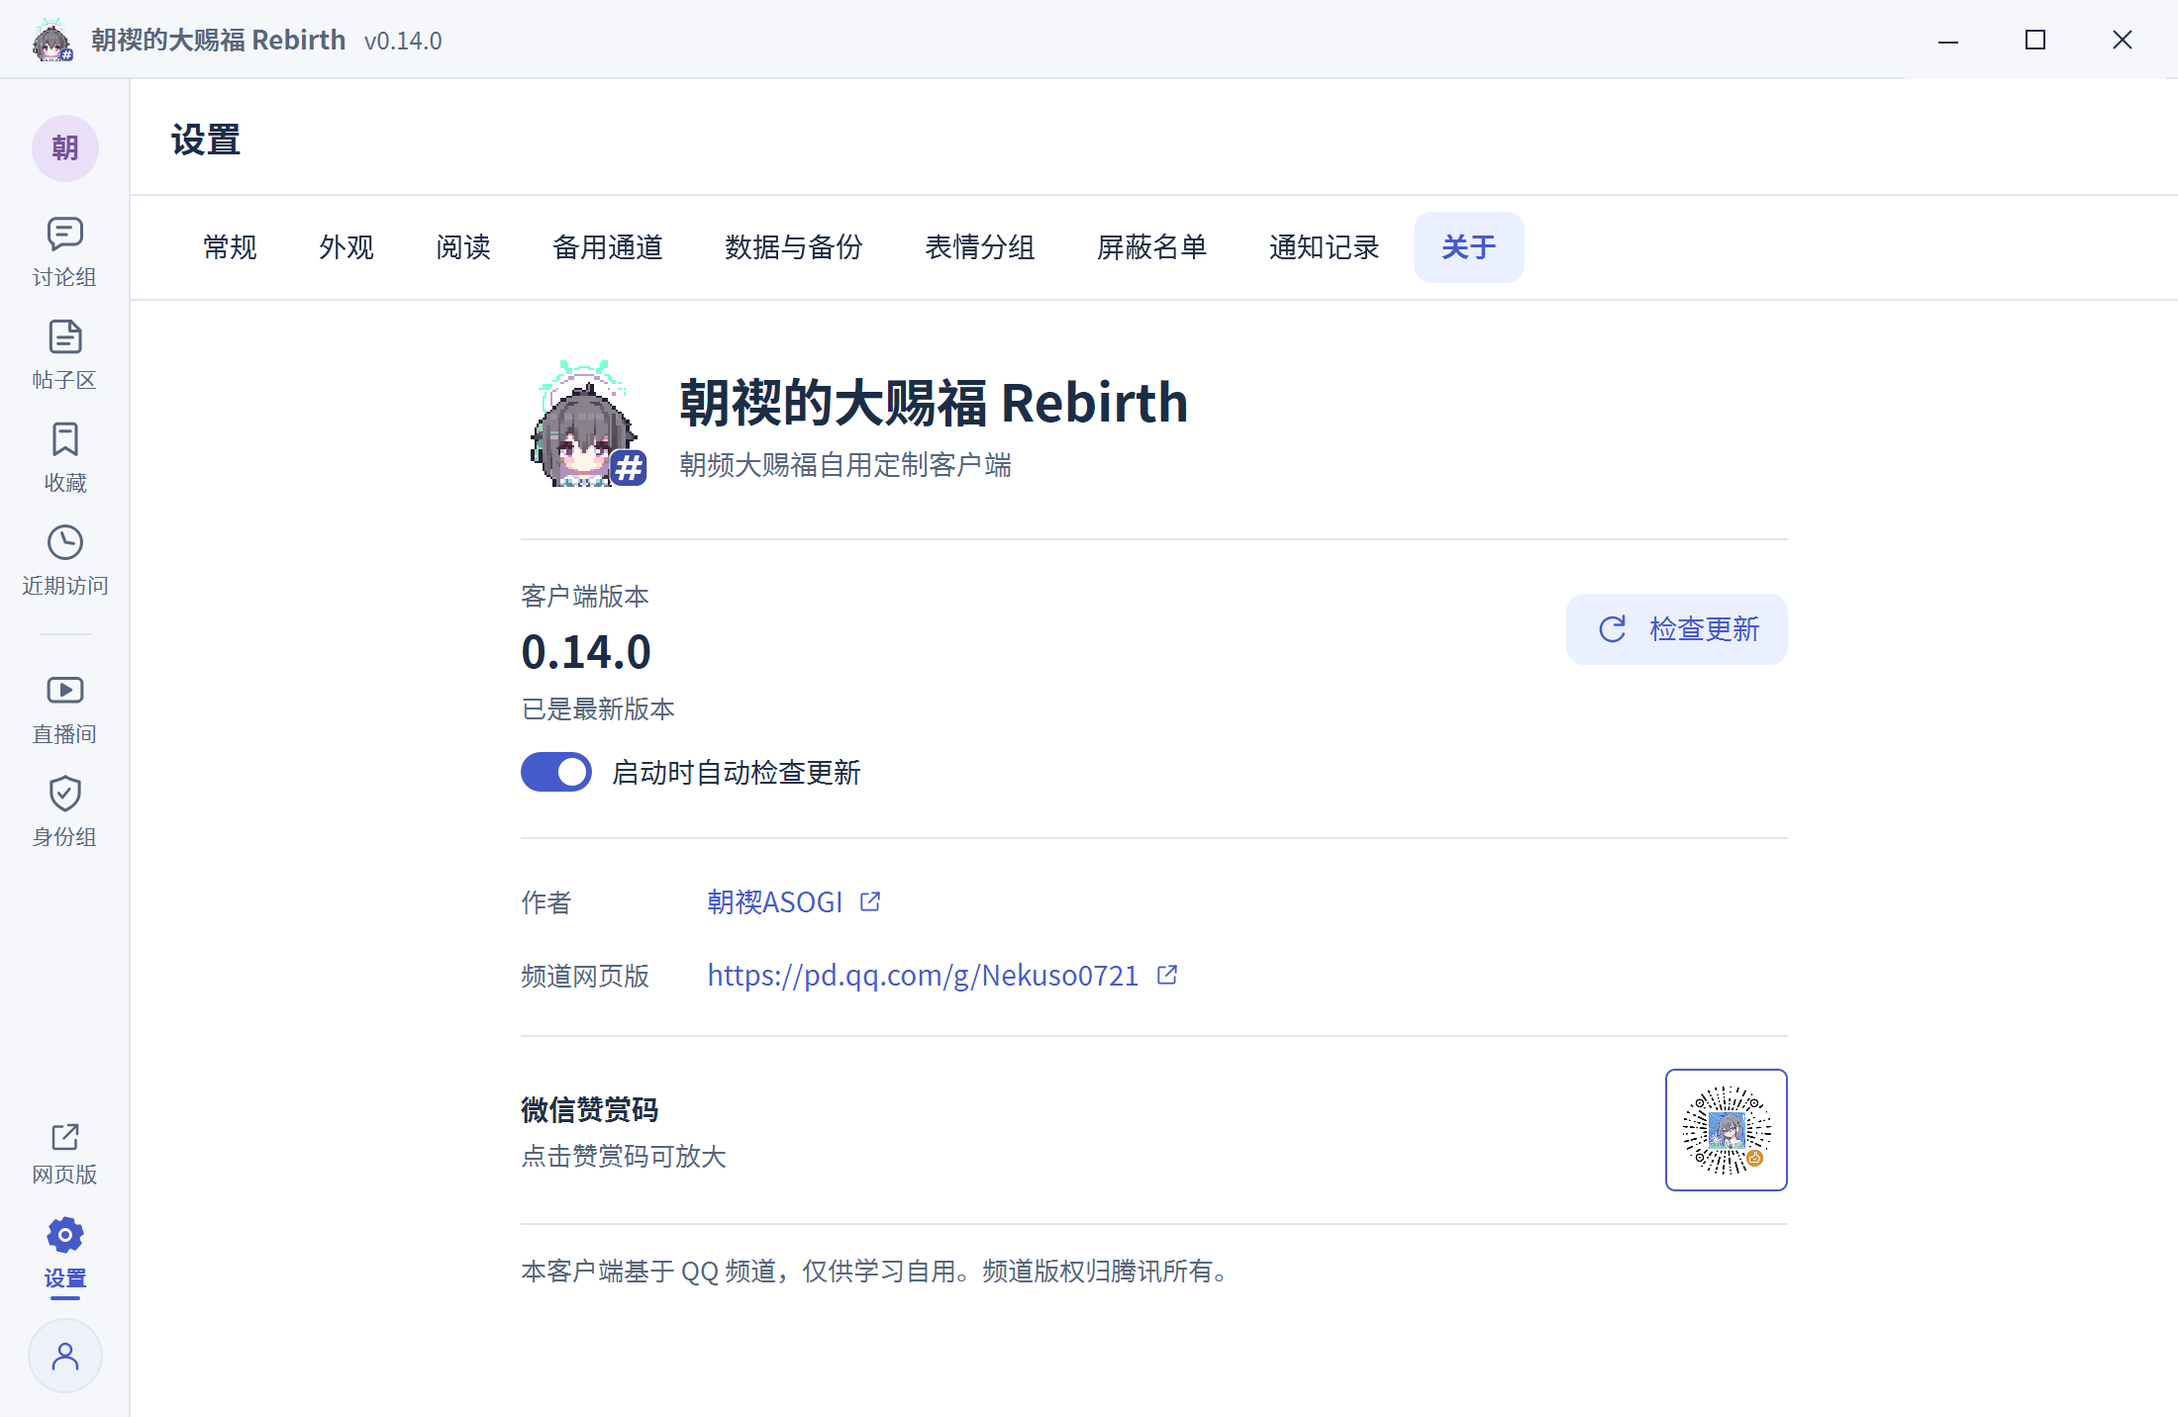
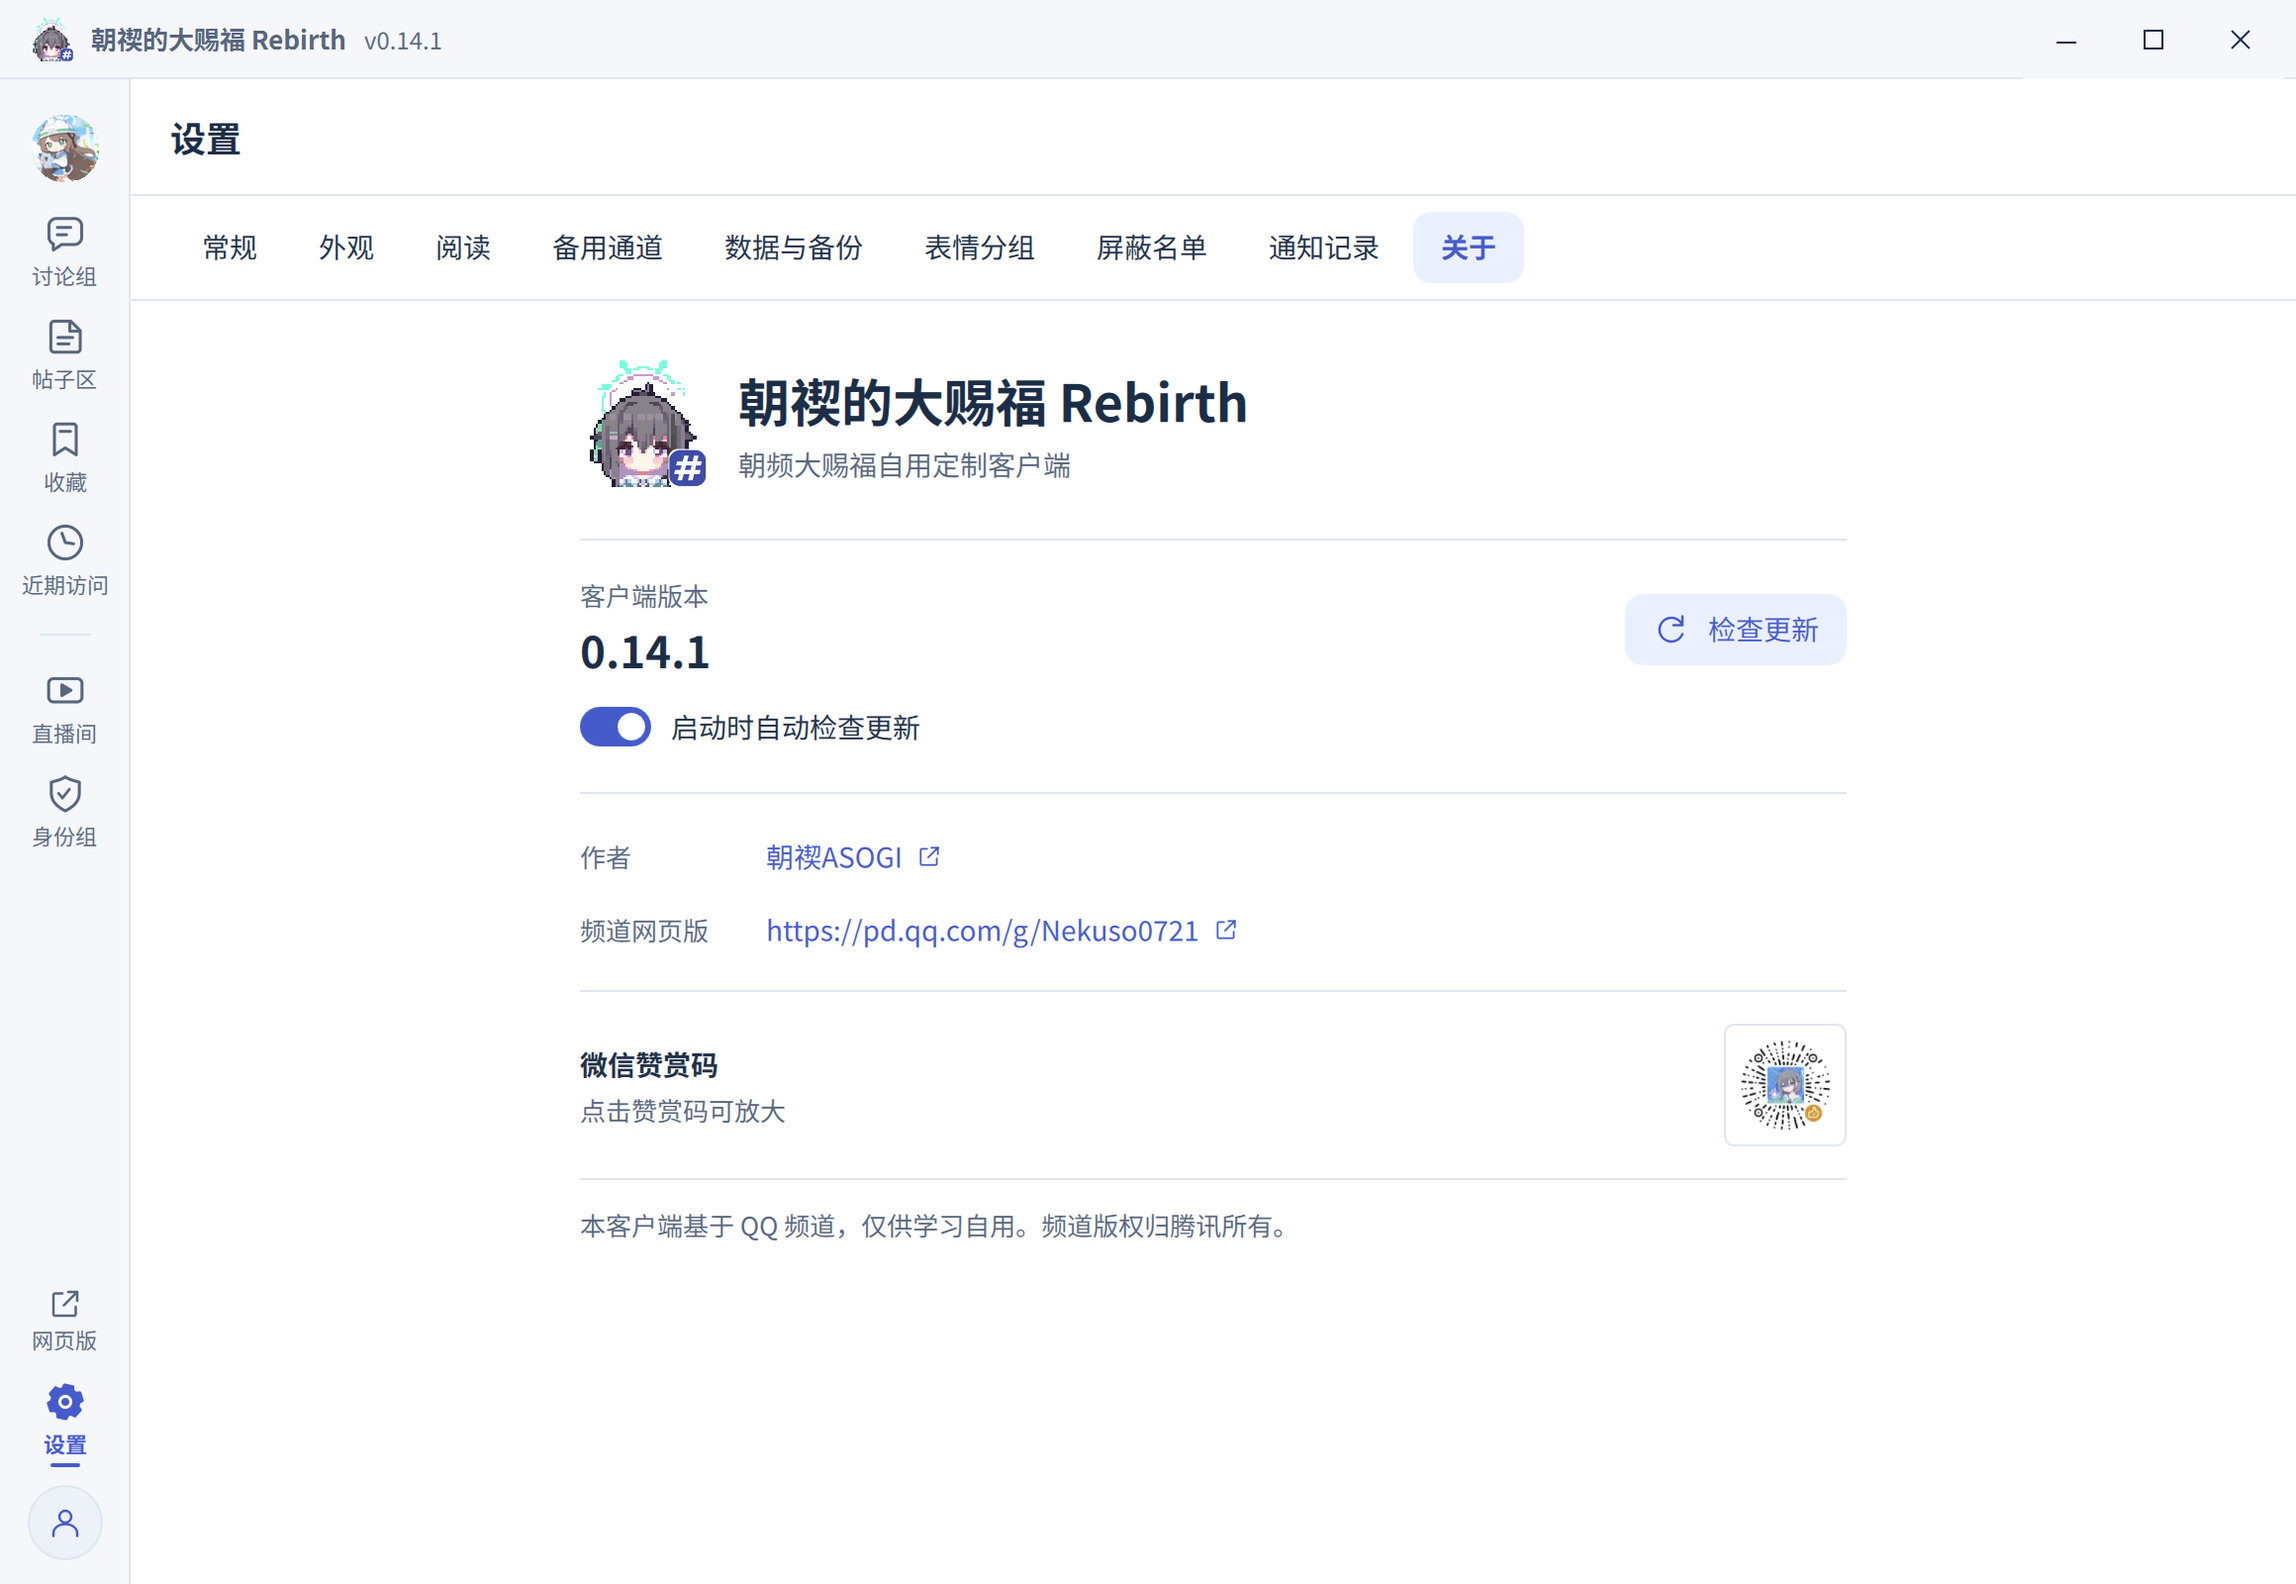
更新 0.14.1 下载说明，展示频道真实讨论组与公告板

diff --git a/README.md b/README.md
@@ -4,13 +4,21 @@
 
 **[下载 Windows x64 最新版（ZIP）](https://github.com/AsaMisogi/Asogi-QQ-Channel-Windows-Update/releases/latest/download/asogi-channel-windows-x64.zip)**　·　[百度网盘](https://pan.baidu.com/s/11q33a4dF3X1YvXK5_pTFlA?pwd=nyt1)（提取码 **nyt1**）　·　[频道网页版](https://pd.qq.com/g/Nekuso0721)
 
-![桌面客户端里的讨论组对话](images/channel.png)
+![月计部的真实游戏讨论，成员信息已遮蔽](images/channel.png)
+
+另看：[后院（综合2）实景](images/courtyard.png) · [公告板帖子区实景](images/forum.png)。截图保留原来的消息、时间和版面，仅遮蔽成员信息及附件。
 
 ## 第一次使用
 
 1. **完整解压**下载的 ZIP，打开文件夹里的 `asogi-channel.exe`。如果从 Release 页面下载，请选择 **asogi-channel-windows-x64.zip**，不要选 GitHub 自动生成的 Source code。
 2. 可以先作为访客阅读。要聊天，请登录 QQ；尚未加入频道的账号可以点「加入该频道」。已入频的账号按本人的房间权限收发消息。
 3. 更新时先从托盘退出旧版，再解压并打开新版。**同机更新不用搬数据**：各版本共用 `%LOCALAPPDATA%\AsogiGuild`。到「设置 → 数据与备份」可以打开这个目录，或按需导出和导入备份。
+
+## Rebirth 0.14.1 · 2026-11-22
+
+**不直连 GitHub 也能查更新。** 当直连较慢或失败时，客户端会转向频道的香港更新入口。它读取同一份 GitHub 正式 Release；有新版时可以直接选择百度网盘下载。香港入口不传安装包，也不接收账号或聊天内容。
+
+![同一频道的真实帖子区，成员信息已遮蔽](images/forum.png)
 
 ## Rebirth 0.14.0 · 2026-11-22
 
@@ -21,6 +29,6 @@
 
 ![设置中的关于页、版本和下载入口](images/about.png)
 
-[查看本次 Release](https://github.com/AsaMisogi/Asogi-QQ-Channel-Windows-Update/releases/tag/v0.14.0) · [查看全部版本](https://github.com/AsaMisogi/Asogi-QQ-Channel-Windows-Update/releases)
+[查看最新 Release](https://github.com/AsaMisogi/Asogi-QQ-Channel-Windows-Update/releases/latest) · [查看全部版本](https://github.com/AsaMisogi/Asogi-QQ-Channel-Windows-Update/releases)
 
 作者：[朝禊ASOGI](https://space.bilibili.com/315312)。本客户端基于 QQ 频道，仅供学习自用，频道版权归腾讯所有。本仓库只提供下载、截图与更新日志。
